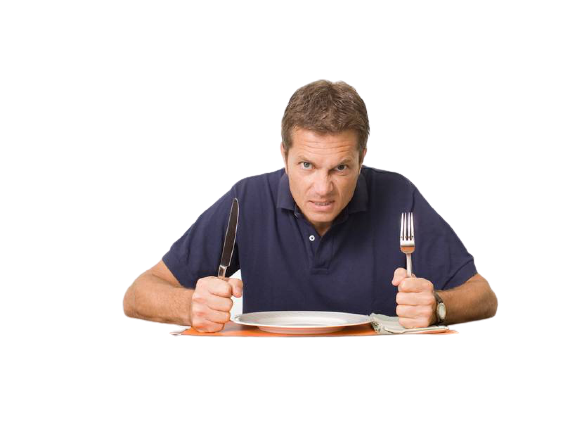
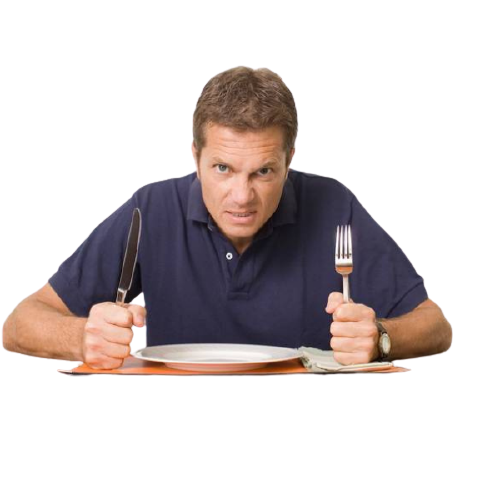
Added pictures and some more functionality

Changed region(s): [[0.0, 0.1212, 0.93, 0.7879]]

diff --git a/src/co/weirddoeats/gfx/simplegfx/SimpleGfxGridPosition.java b/src/co/weirddoeats/gfx/simplegfx/SimpleGfxGridPosition.java
@@ -80,8 +80,8 @@ public class SimpleGfxGridPosition extends AbstractGridPosition {
         }
 
         else {
-            this.picture = new Picture((col - 4) * (PIXELS) + GameGrid.PADDING + 16, (row - 3) * PIXELS - 10 + GameGrid.INFO_BOARD_HEIGHT, picture);
-            this.picture.grow(-105, -105);
+            this.picture = new Picture((col - 4) * (PIXELS) + GameGrid.PADDING + 5, (row - 3) * PIXELS - 2 + GameGrid.INFO_BOARD_HEIGHT, picture);
+            this.picture.grow(-95, -95);
         }
 
         setPos(col, row);
@@ -97,8 +97,8 @@ public class SimpleGfxGridPosition extends AbstractGridPosition {
         rectangle.setColor(Color.WHITE);
 
         //rectangle = new Rectangle(getCol() * PIXELS + GameGrid.PADDING, getRow() * PIXELS + GameGrid.PADDING, PIXELS, PIXELS);
-        this.picture = new Picture((col - 6) * (PIXELS) , (row - 8) * PIXELS + 12 + GameGrid.INFO_BOARD_HEIGHT, picture);
-        this.picture.grow(-190, -190);
+        this.picture = new Picture((col - 6) * (PIXELS) , (row - 8) * PIXELS + 5 + GameGrid.INFO_BOARD_HEIGHT , picture);
+        this.picture.grow(-195, -195);
 
         setPos(col + 1, row);
         hide();
@@ -109,7 +109,7 @@ public class SimpleGfxGridPosition extends AbstractGridPosition {
      */
     @Override
     public void show() {
-        rectangle.draw();
+        //rectangle.draw();
         picture.draw();
     }
 
@@ -147,6 +147,13 @@ public class SimpleGfxGridPosition extends AbstractGridPosition {
         System.out.println("Moved to Row: " + getRow() + ". And Col: " + getCol() + ". Width: " + picture.getWidth() + ". Height: " + picture.getHeight());
     }
 
+    public boolean isAround(int col, int row, SimpleGfxGridPosition pos){
+        return ((col == pos.getCol() && row == pos.getRow()) || (col - 1 == pos.getCol() && row == pos.getRow()) ||
+                (col+1 == pos.getCol() && row == pos.getRow()) || (col == pos.getCol() && row + 1 == pos.getRow()) ||
+                (col == pos.getCol() && row-1 == pos.getRow()) || (col -1 == pos.getCol() && row-1 == pos.getRow()) ||
+                (col + 1 == pos.getCol() && row + 1 == pos.getRow()));
+    }
+
     public void checkHorizontally(int moveCols, Game game, boolean isGoal) {
 
         GamePosition[] positions = game.getGamePositions();
@@ -157,13 +164,16 @@ public class SimpleGfxGridPosition extends AbstractGridPosition {
 
             if (!isGoal) {
 
+                /*
                 if ((getCol() + i) == positions[2].getPosition().getCol()
-                        && (getRow()) == positions[2].getPosition().getRow()) {
+                        && (getRow()) == positions[2].getPosition().getRow())*/
+                if(isAround(getCol() + i, getRow(), positions[2].getPosition())){
                     System.out.println("Passed by FOOD!");
                     game.pickFood();
                 }
-            } else if ((getCol() + i) == positions[3].getPosition().getCol()
-                    && (getRow()) == positions[3].getPosition().getRow()) {
+            } else /*if ((getCol() + i) == positions[3].getPosition().getCol()
+                    && (getRow()) == positions[3].getPosition().getRow()) */
+                if(isAround(getCol() + i, getRow(), positions[3].getPosition())){
                 System.out.println("Passed by GOAL!");
                 game.arrivedToGoal();
             }
@@ -187,13 +197,11 @@ public class SimpleGfxGridPosition extends AbstractGridPosition {
                     positions[2].getPosition().getRow());
             if (!isGoal) {
 
-                if ((getCol()) == positions[2].getPosition().getCol()
-                        && (getRow() + i) == positions[2].getPosition().getRow()) {
+                if (isAround(getCol(), getRow() + i, positions[2].getPosition())) {
                     System.out.println("Passed by FOOD!");
                     game.pickFood();
                 }
-            } else if ((getCol()) == positions[3].getPosition().getCol()
-                    && (getRow() + i) == positions[3].getPosition().getRow()) {
+            } else if (isAround(getCol(), getRow() + i, positions[3].getPosition())) {
                 System.out.println("Passed by GOAL!");
                 game.arrivedToGoal();
             }

diff --git a/src/co/weirddoeats/game/KeyboardController.java b/src/co/weirddoeats/game/KeyboardController.java
@@ -182,7 +182,7 @@ public class KeyboardController implements KeyboardHandler {
                 initAdditional();
                 game.getPlayer().getVehicle().getPosition().show();
                 updateInfo();
-                game.getGameObjects()[1].getPosition().show();
+                game.getGameObjects()[1].getPosition().hide();
                 game.getGameObjects()[3].getPosition().show();
 
             }
@@ -252,14 +252,13 @@ public class KeyboardController implements KeyboardHandler {
             game.getGameObjects()[2].getPosition().hide();
             game.getGamePositions()[3].getPosition().hide();
             game.generateNewCoordinates();
-            game.getGameObjects()[1].getPosition().show();
+            game.getGameObjects()[1].getPosition().hide();
             game.getGameObjects()[3].getPosition().show();
         }
 
         isGoal = false;
 
-        updateScore(game.getPlayer().getScore() + (game.getLevel() * 100 + (50 * (Game.TIME_STAGE_SECONDS -
-                (Game.TIME_STAGE_SECONDS - game.getTime())))));
+        updateScore(game.getPlayer().getScore() + (game.getLevel() * 100 + (50 * timeLeft)));
 
         timeLeft = game.getInitialTime();
 
@@ -268,7 +267,7 @@ public class KeyboardController implements KeyboardHandler {
     public void pickedFood() {
         game.getGameObjects()[1].getPosition().hide();
         game.getGameObjects()[3].getPosition().hide();
-        game.getGameObjects()[2].getPosition().show();
+        game.getGameObjects()[2].getPosition().hide();
         game.getGamePositions()[3].getPosition().show();
         game.getMusic().playSound("tap.mp3");
         isGoal = true;

diff --git a/src/co/weirddoeats/game/Game.java b/src/co/weirddoeats/game/Game.java
@@ -111,6 +111,7 @@ public class Game {
                     if (count == 3) {
                         hasPos = true;
                         ((Building) object).setPosition(position);
+                        ((Building) object).getPosition().hide();
                         System.out.println("Generated positions Building. Col: " + object.getPosition().getCol() + ". Row: " + object.getPosition().getRow());
                     } else {
                         System.out.println("Did not get new coordinates for Building in loop. Looping again.");
@@ -220,7 +221,7 @@ public class Game {
             getGameObjects()[2].getPosition().hide();
             getGamePositions()[3].getPosition().hide();
             generateNewCoordinates();
-            getGameObjects()[1].getPosition().show();
+            getGameObjects()[1].getPosition().hide();
             getGameObjects()[3].getPosition().show();
             player.levelUp(level);
             player.getVehicle().getPosition().hide();

diff --git a/src/co/weirddoeats/attributes/VehicleFactory.java b/src/co/weirddoeats/attributes/VehicleFactory.java
@@ -4,9 +4,9 @@ import co.weirddoeats.gfx.simplegfx.GameGrid;
 
 public class VehicleFactory {
 
-    private static final String [] vehicleTypes = {"person", "bicycle", "biker", "car", "ferrari", "spaceship"};
+    private static final String [] vehicleTypes = {"person", "bicycle", "biker", "car", "ferrari", "shuttle"};
     private static final int [] speed = {1,1,1,1,1,1};
-    private static final String [] pictures = {"person_up.png", "bicycle_up.png", "biker_up.png", "car_up.png", "ferrari_up.png", "spaceship_up.png"};
+    private static final String [] pictures = {"person_up.png", "bicycle_up.png", "biker_up.png", "car_up.png", "ferrari_up.png", "shuttle_up.png"};
 
     public static Vehicle generateVehicle(int level, GameGrid grid){
         return new Vehicle(vehicleTypes[level], speed[level], pictures[level], grid);

diff --git a/src/co/weirddoeats/attributes/FoodFactory.java b/src/co/weirddoeats/attributes/FoodFactory.java
@@ -6,7 +6,7 @@ import co.weirddoeats.gfx.simplegfx.SimpleGfxGridPosition;
 public class FoodFactory {
 
     private static final String [] name = {"sandwiches", "prawns à guilho", "steak, rice, chips and egg", "sushi", "chef dish", "astronaut food"};
-    private static final String [] pictures = {"doughnut.png", "bowl.png", "bowl.png", "bowl.png", "bowl.png", "bowl.png"};
+    private static final String [] pictures = {"doughnut.png", "gambas.png", "pizza.png", "sushi.png", "author.png", "astronautfood.png"};
 
     public static Food generateFood(int level, Building building, GameGrid grid){
 

diff --git a/src/co/weirddoeats/attributes/BackgroundFactory.java b/src/co/weirddoeats/attributes/BackgroundFactory.java
@@ -2,7 +2,7 @@ package co.weirddoeats.attributes;
 
 public class BackgroundFactory {
 
-    public static final String [] PICTURES = {"bg4.png", "bg5.png", "bg6.png", "bg7.png", "bg8.png", "bg9.png"};
+    public static final String [] PICTURES = {"back1_2.png", "back2.png", "back3.png", "back4.png", "back5.png", "warp.png"};
 
     public static Background generateBackground(int level){
         return new Background(PICTURES[level]);

diff --git a/src/co/weirddoeats/game/Goal.java b/src/co/weirddoeats/game/Goal.java
@@ -6,7 +6,7 @@ import co.weirddoeats.gfx.simplegfx.SimpleGfxGridPosition;
 
 public class Goal {
 
-    private final String [] PICTURES = {"happygirl.png", "hungry.png", "hungry.png", "hungry.png", "hungry.png", "hungry.png"};
+    private final String [] PICTURES = {"happygirl.png", "hungry.png", "businesswoman.png", "genesimmons3.png", "daftpunk.png", "astronaut.png"};
 
     private SimpleGfxGridPosition position;
 
